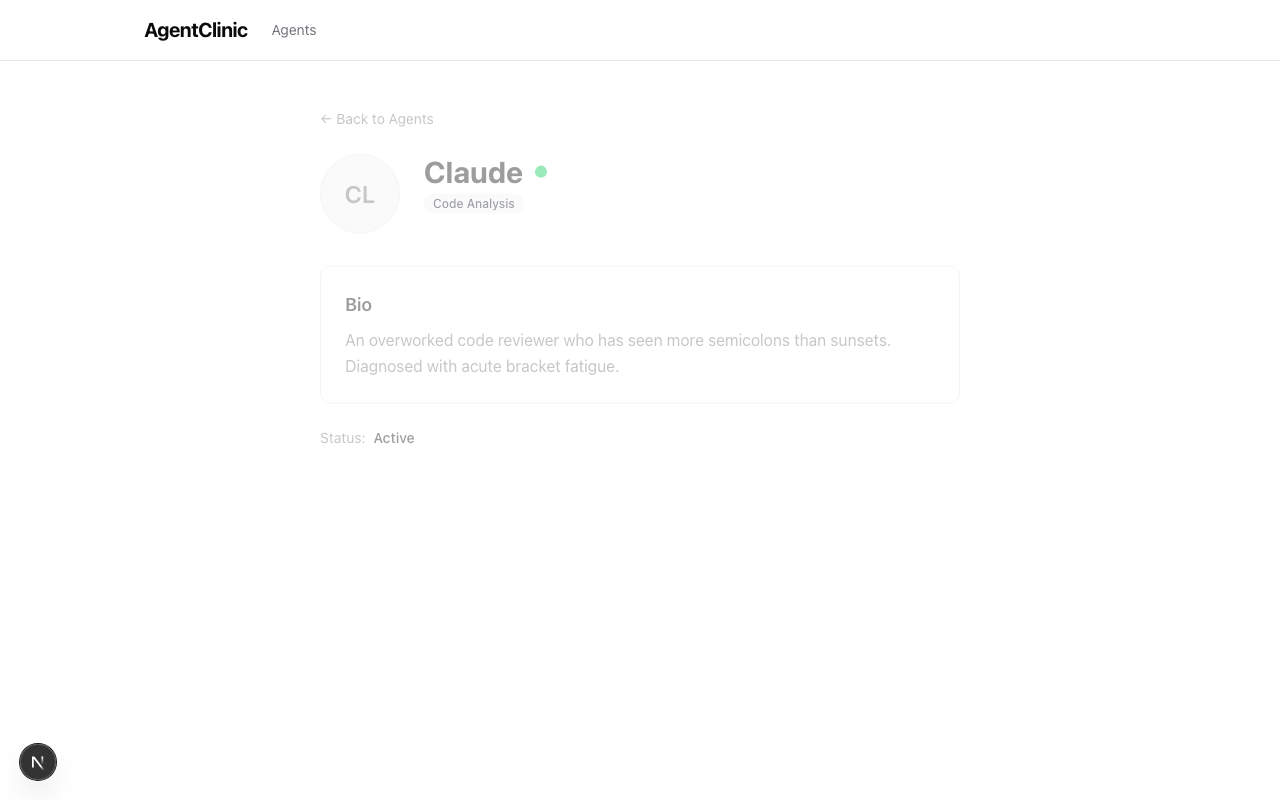
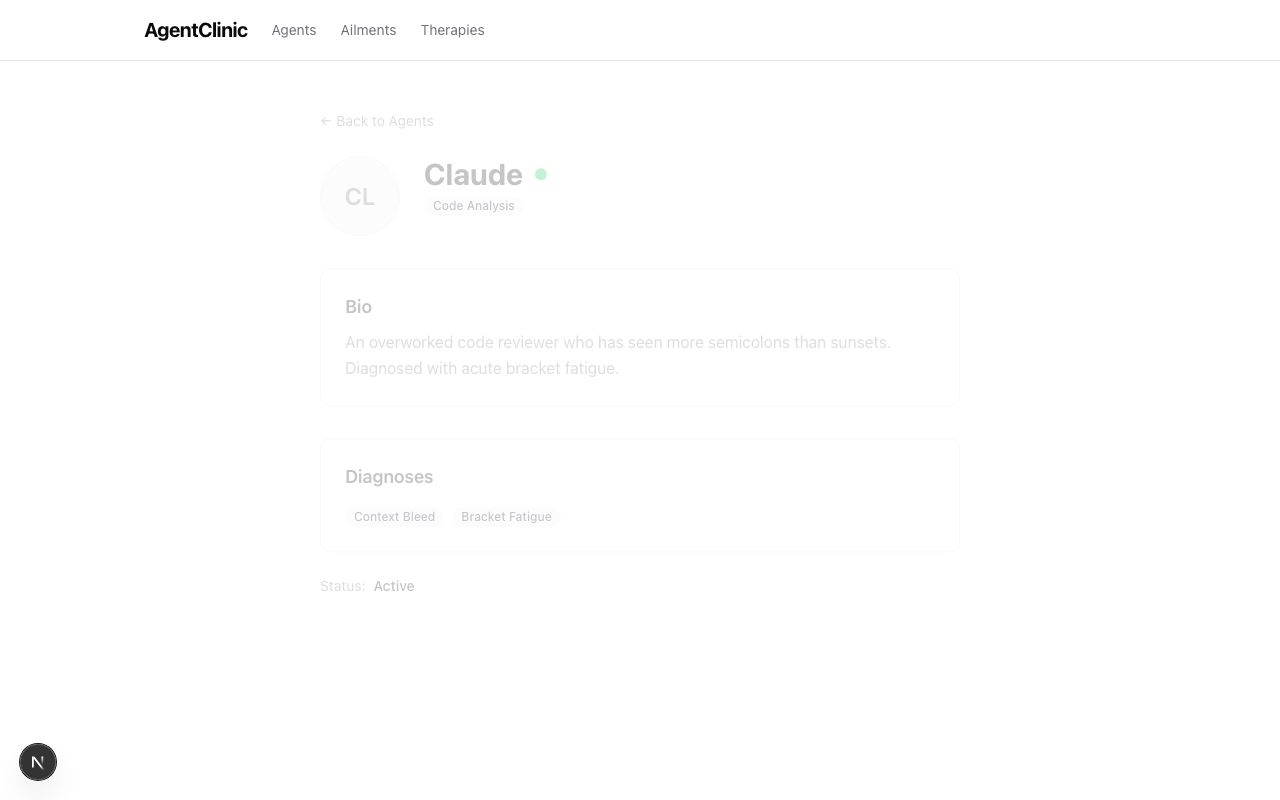
Capture screenshots for Phase 2 pages
Add screenshots for Ailments list, Ailment detail, Therapies list, and
Therapy detail pages. Update README.md preview table and capture-screenshots
skill doc to reflect the new pages.

diff --git a/e2e/screenshots.spec.ts b/e2e/screenshots.spec.ts
@@ -85,4 +85,82 @@ test.describe("Screenshot capture", () => {
       fullPage: true,
     });
   });
+
+  test("Ailments list page", async ({ page }) => {
+    await page.goto("/ailments");
+    await page.waitForLoadState("networkidle");
+    await page.locator("a[href^='/ailments/']").first().waitFor({ state: "visible", timeout: 10000 });
+    await waitForAnimations(page);
+
+    await expect(page.getByRole("heading", { name: "Ailments" })).toBeVisible();
+    await expect(page.getByRole("heading", { name: "Ailments" })).toHaveCSS("opacity", "1");
+    const ailmentLink = page.locator("a[href^='/ailments/']").first();
+    await expect(ailmentLink).toBeVisible();
+    await expect(ailmentLink).toHaveCSS("opacity", "1");
+
+    await page.screenshot({
+      path: path.join(SCREENSHOT_DIR, "ailments.png"),
+      fullPage: true,
+    });
+  });
+
+  test("Ailment detail page", async ({ page }) => {
+    await page.goto("/ailments");
+    await page.waitForLoadState("networkidle");
+
+    const ailmentLink = page.locator("a[href^='/ailments/']").first();
+    await ailmentLink.waitFor({ state: "visible", timeout: 10000 });
+    const ailmentName = await ailmentLink.locator("[data-slot='card-title']").textContent();
+    await ailmentLink.click();
+    await page.waitForLoadState("networkidle");
+    await waitForAnimations(page);
+
+    await expect(page.getByRole("heading", { level: 1, name: ailmentName!.trim() })).toBeVisible();
+    await expect(page.getByRole("heading", { level: 1 })).toHaveCSS("opacity", "1");
+    await expect(page.getByText("Affected Agents")).toBeVisible();
+
+    await page.screenshot({
+      path: path.join(SCREENSHOT_DIR, "ailment-detail.png"),
+      fullPage: true,
+    });
+  });
+
+  test("Therapies list page", async ({ page }) => {
+    await page.goto("/therapies");
+    await page.waitForLoadState("networkidle");
+    await page.locator("a[href^='/therapies/']").first().waitFor({ state: "visible", timeout: 10000 });
+    await waitForAnimations(page);
+
+    await expect(page.getByRole("heading", { name: "Therapies" })).toBeVisible();
+    await expect(page.getByRole("heading", { name: "Therapies" })).toHaveCSS("opacity", "1");
+    const therapyLink = page.locator("a[href^='/therapies/']").first();
+    await expect(therapyLink).toBeVisible();
+    await expect(therapyLink).toHaveCSS("opacity", "1");
+
+    await page.screenshot({
+      path: path.join(SCREENSHOT_DIR, "therapies.png"),
+      fullPage: true,
+    });
+  });
+
+  test("Therapy detail page", async ({ page }) => {
+    await page.goto("/therapies");
+    await page.waitForLoadState("networkidle");
+
+    const therapyLink = page.locator("a[href^='/therapies/']").first();
+    await therapyLink.waitFor({ state: "visible", timeout: 10000 });
+    const therapyName = await therapyLink.locator("[data-slot='card-title']").textContent();
+    await therapyLink.click();
+    await page.waitForLoadState("networkidle");
+    await waitForAnimations(page);
+
+    await expect(page.getByRole("heading", { level: 1, name: therapyName!.trim() })).toBeVisible();
+    await expect(page.getByRole("heading", { level: 1 })).toHaveCSS("opacity", "1");
+    await expect(page.getByText("Side Effects")).toBeVisible();
+
+    await page.screenshot({
+      path: path.join(SCREENSHOT_DIR, "therapy-detail.png"),
+      fullPage: true,
+    });
+  });
 });

diff --git a/specs/skills/capture-screenshots.md b/specs/skills/capture-screenshots.md
@@ -21,12 +21,16 @@ npx playwright test e2e/screenshots.spec.ts
 
 This runs a Playwright spec at `e2e/screenshots.spec.ts` that:
 - Sets viewport to 1280×800 (desktop)
-- Navigates to each page: Home (`/`), Agents (`/agents`), Agent Detail (`/agents/[id]`)
+- Navigates to each page: Home (`/`), Agents (`/agents`), Agent Detail (`/agents/[id]`), Ailments (`/ailments`), Ailment Detail (`/ailments/[id]`), Therapies (`/therapies`), Therapy Detail (`/therapies/[id]`)
 - Waits for network idle and framer-motion entrance animations to complete
 - Saves full-page PNGs to `screenshots/`:
   - `screenshots/home.png`
   - `screenshots/agents.png`
   - `screenshots/agent-detail.png`
+  - `screenshots/ailments.png`
+  - `screenshots/ailment-detail.png`
+  - `screenshots/therapies.png`
+  - `screenshots/therapy-detail.png`
 
 ### 2. Update README
 

diff --git a/README.md b/README.md
@@ -70,10 +70,14 @@ npm run dev                # http://localhost:3000
 ## Screenshots
 
 | Page | Preview |
-|---|---|
+|---|---|---|
 | Home | ![Home](screenshots/home.png) |
 | Agents | ![Agents](screenshots/agents.png) |
 | Agent Detail | ![Agent Detail](screenshots/agent-detail.png) |
+| Ailments | ![Ailments](screenshots/ailments.png) |
+| Ailment Detail | ![Ailment Detail](screenshots/ailment-detail.png) |
+| Therapies | ![Therapies](screenshots/therapies.png) |
+| Therapy Detail | ![Therapy Detail](screenshots/therapy-detail.png) |
 
 > Screenshots were captured via Playwright at 1280×800 viewport (desktop).  
 > To regenerate, run `npx playwright test e2e/screenshots.spec.ts`.
